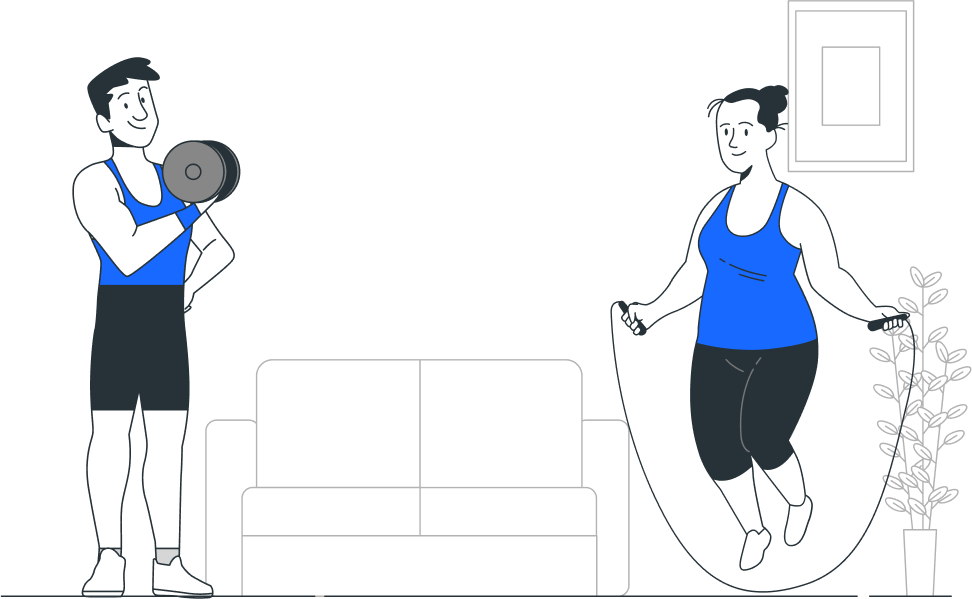
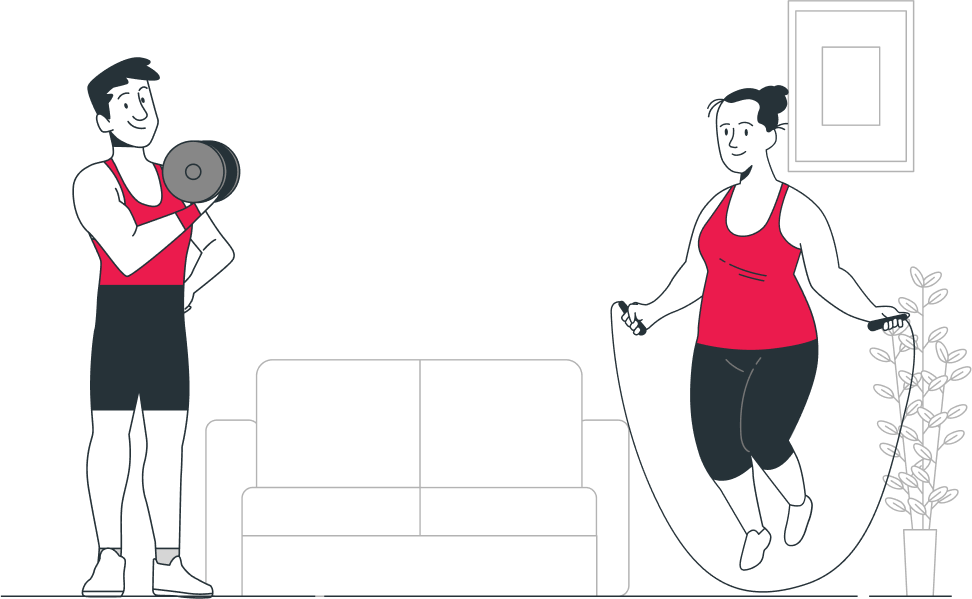
adjusted color scheme for all sections

diff --git a/app/_components/section/ContactSection/ContactSection.module.css b/app/_components/section/ContactSection/ContactSection.module.css
@@ -2,7 +2,8 @@
   display: grid;
   grid-template-columns: 1fr 1fr;
   gap: 32px;
-  background: linear-gradient(276.12deg, #000000 -34.97%, #1769ff 111.21%);
+  background: linear-gradient(135deg, #eb1b4d 0%, #84348b 100%);
+
   padding: 80px;
   border-radius: 32px;
   margin-bottom: 80px 80px 120px 80px;
@@ -68,7 +69,7 @@
 .contactSection .button {
   padding: 10px 36px;
   border-radius: 80px;
-  color: var(--blue-color);
+  color: var(--red-color);
   background: #fff;
   font-size: 15px;
   font-weight: 600;
@@ -131,7 +132,7 @@
     left: 300px;
     z-index: 9;
   }
-  
+
   .contactImage {
     object-fit: cover;
     width: 100%;
@@ -141,23 +142,23 @@
   .contactImage {
     display: block; /* Show image on larger screens */
   }
-  
+
   .contactSection .title {
     font-size: 48px;
     line-height: 48px;
     text-align: left;
   }
-  
+
   .contactSection .description {
     font-size: 20px;
     line-height: 36px;
     text-align: left;
   }
-  
+
   .contactSection .input {
     padding: 16px;
   }
-  
+
   .contactSection .input::placeholder {
     font-size: 16px;
   }
@@ -167,31 +168,31 @@
     padding: 60px;
     grid-template-columns: 1fr;
   }
-  
+
   .contactSection .contactRight {
     display: none;
   }
-  
+
   .contactSection .contactImage {
     display: none;
   }
-  
+
   .contactSection .title {
     font-size: 36px;
     line-height: 42px;
     text-align: center;
   }
-  
+
   .contactSection .description {
     font-size: 18px;
     line-height: 28px;
     text-align: center;
   }
-  
+
   .contactSection .input {
     padding: 14px;
   }
-  
+
   .contactSection .input::placeholder {
     font-size: 15px;
   }
@@ -203,18 +204,18 @@
     margin-inline: 16px;
     padding: 40px 24px 40px 24px;
   }
-  
+
   .contactImage {
     display: none;
   }
-  
+
   .contactSection .title {
     font-size: 24px;
     line-height: 40px;
     letter-spacing: -1px;
     text-align: center;
   }
-  
+
   .contactSection .description {
     font-size: 15px;
     font-weight: 500;
@@ -222,12 +223,12 @@
     letter-spacing: -0.20000000298023224px;
     text-align: center;
   }
-  
+
   .contactSection .input {
     border: 1px solid;
     padding: 12px;
   }
-  
+
   .contactSection .input::placeholder {
     font-size: 14px;
   }

diff --git a/app/data.jsx b/app/data.jsx
@@ -7,19 +7,19 @@ export const programs = [
     id: 1,
     title: "Fitness tailored to you",
     info: "Forget one-size-fits-all programs. We offer personalized plans that fit your lifestyle, your goals, and your schedule. Our expert trainers craft routines that adapt with you, ensuring you never hit a plateau.",
-    image: "/images/illustration1.png",
+    image: "/images/bro1.png",
   },
   {
     id: 2,
     title: "Results that last",
     info: "No more endless dieting or quick fixes. At Grow Kinesis, we focus on lasting progress with personalized fitness plans and localized nutrition. Build habits that stick and enjoy long-term results for years to come.",
-    image: "/images/illustration2.png",
+    image: "/images/bro2.png",
   },
   {
     id: 3,
     title: "Fitness tailored to you",
     info: "Forget one-size-fits-all programs. We offer personalized plans that fit your lifestyle, your goals, and your schedule. Our expert trainers craft routines that adapt with you, ensuring you never hit a plateau.",
-    image: "/images/illustration3.png",
+    image: "/images/bro3.png",
   },
 ];
 

diff --git a/app/_components/section/FooterSection/FooterSection.tsx b/app/_components/section/FooterSection/FooterSection.tsx
@@ -9,14 +9,14 @@ const Footer = () => {
       <div className={styles.logoContainer}>
         <Link href="/" className={styles.logoLink}>
           <Image
-            src="/images/logo.png"
+            src="/images/logomark.svg"
             alt="Logo Shape"
             width={45.95}
             height={45.95}
             className={styles.logoImage}
           />
           <Image
-            src="/images/letters.png"
+            src="/images/letters.svg"
             alt="Logo Text"
             width={138.59}
             height={17.08}
@@ -31,7 +31,9 @@ const Footer = () => {
         <div className={styles.socialLinks}>
           <a href="#">Instagram</a>
           <a href="#">X (fka. Twitter)</a>
-          <a href="#" className={styles.email}>support@growkinesis.com</a>
+          <a href="#" className={styles.email}>
+            support@growkinesis.com
+          </a>
         </div>
       </div>
     </footer>

diff --git a/app/_components/section/NavbarSection/NavbarSection.tsx b/app/_components/section/NavbarSection/NavbarSection.tsx
@@ -8,14 +8,14 @@ export const Navbar = () => {
       <div className={styles.logoContainer}>
         <Link href="/" className={styles.logoLink}>
           <Image
-            src="/images/logo.png"
+            src="/images/logomark.svg"
             alt="Logo Shape"
             width={45.95}
             height={45.95}
             className={styles.logoImage}
           />
           <Image
-            src="/images/letters.png"
+            src="/images/letters.svg"
             alt="Logo Text"
             width={138.59}
             height={17.08}

diff --git a/app/_components/section/Testimonials/Testimonials.module.css b/app/_components/section/Testimonials/Testimonials.module.css
@@ -9,7 +9,7 @@
 }
 
 .sectionSpan {
-  color: var(--blue-color);
+  color: var(--red-color);
 }
 
 .sectionParagraph {
@@ -20,6 +20,7 @@
   letter-spacing: -1px;
   text-align: center;
   margin-bottom: 64px;
+  
 }
 
 .testimonialsContainer {
@@ -87,7 +88,7 @@
   font-size: 12px;
   line-height: 16px;
   letter-spacing: -0.2px;
-  color: var(--blue-color);
+  color: var(--red-color);
   margin-bottom: 12px;
 }
 

diff --git a/app/_components/Button/Button.module.css b/app/_components/Button/Button.module.css
@@ -1,5 +1,5 @@
 .button {
-  background: var(--blue-color);
+  background: var(--red-color);
   padding: 16px 36px 16px 36px;
   color: #fff;
   border-radius: 80px;
@@ -14,7 +14,7 @@
   background-color: #fff;
   border-radius: 80px;
   gap: 12px;
-  color: var(--blue-color);
+  color: var(--red-color);
   padding: 16px 36px 16px 36px;
   cursor: pointer;
 }

diff --git a/app/_components/section/FooterSection/FooterSection.module.css b/app/_components/section/FooterSection/FooterSection.module.css
@@ -52,7 +52,7 @@
   line-height: 36px;
   letter-spacing: -1px;
   text-align: left;
-  color: var(--blue-color);
+  color: var(--red-color);
   text-decoration: underline;
 }
 
@@ -149,6 +149,6 @@
     font-size: 12px;
     line-height: 16px;
     letter-spacing: -0.20000000298023224px;
-    color: var(--blue-color);
+    color: var(--red-color);
   }
 }

diff --git a/app/globals.css b/app/globals.css
@@ -3,7 +3,7 @@
 :root {
   --gray-color: #edeff2;
   --dark-color: #242526;
-  --blue-color: #1769ff;
+  --red-color: #eb1b4d;
   --white: #ffff;
 
   /* --container-width-lg: 1300px;
@@ -12,7 +12,7 @@
   --container-padding: 16px; */
 }
 
-body {
+body {    
   background: #ffff;
   font-family: "Instrument Sans", sans-serif;
 }

diff --git a/app/_components/section/ProgramSection/ProgramSection.module.css b/app/_components/section/ProgramSection/ProgramSection.module.css
@@ -2,7 +2,7 @@
   display: grid;
   grid-template-columns: repeat(3, 1fr);
   gap: 24px;
-  margin-bottom: 80px;
+  margin: 0 auto 80px auto;
 }
 
 .programTitle {
@@ -15,7 +15,7 @@
 }
 
 .programSpan {
-  color: var(--blue-color);
+  color: var(--red-color);
 }
 
 /* Responsive for small laptops (1024px - 1280px) */

diff --git a/app/_components/Card/Card.module.css b/app/_components/Card/Card.module.css
@@ -1,6 +1,6 @@
 .cardContainer {
   padding: 64px 40px 64px 40px;
-  border: 2px dotted var(--blue-color);
+  border: 2px dotted var(--red-color);
   max-width: fit-content;
   text-align: center;
   border-radius: 24px;

diff --git a/app/_components/section/HeroSection/HeroSection.module.css b/app/_components/section/HeroSection/HeroSection.module.css
@@ -4,7 +4,7 @@
   justify-content: center;
   align-items: center;
   text-align: center;
-  margin-bottom: 80px;
+  margin: 0 auto 80px auto;
 }
 
 .heroText {
